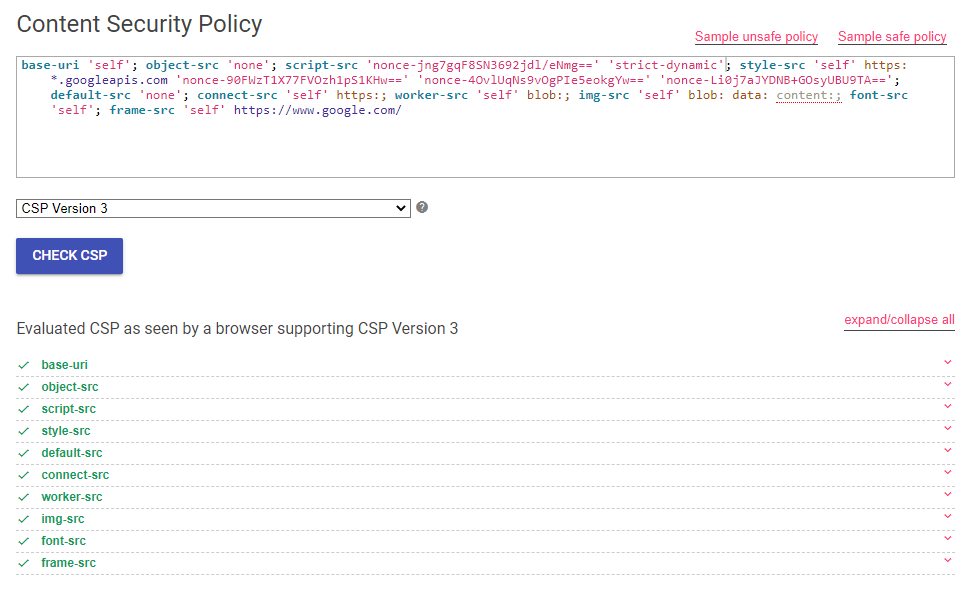
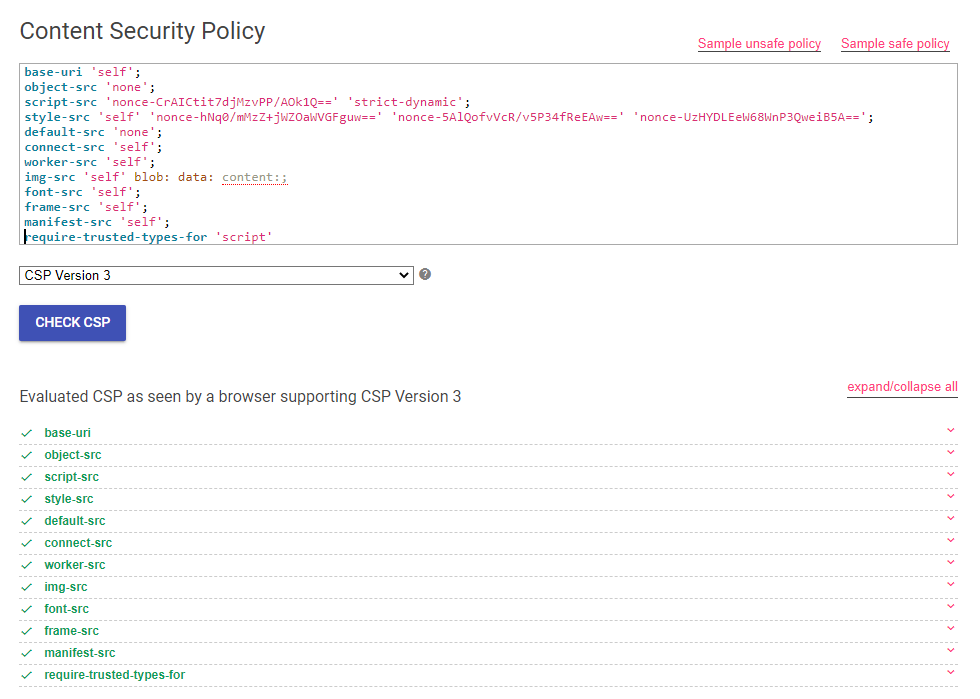
Added Trusted Types

diff --git a/config-overrides.js b/config-overrides.js
@@ -11,8 +11,9 @@ const cspConfigPolicy = {
     'frame-src': "'self'",
     'manifest-src': "'self'",
     'object-src': "'none'",
-    'script-src': ["'self'"],
-    'style-src': ["'self'"]
+    'style-src': ["'self'"],
+    'script-src': ["'strict-dynamic'"],
+    'require-trusted-types-for': ["'script'"]
 };
 
 function addCspHtmlWebpackPlugin(config) {

diff --git a/README.md b/README.md
@@ -12,7 +12,7 @@ on how to security harden my production applications.
 
 This article will show you how to make your CRA application more secure for your organization by implementing:
 - Content Security Policy (CSP)
-- Sanitizing HTML 
+- Trusted Types and Sanitizing HTML 
 - Subresource Integrity (SRI)
 - Excluding Source Maps
 
@@ -42,10 +42,15 @@ GENERATE_SOURCEMAP=false
 
 ### Install CSP Plugin
 
-Install the dependencies including the [CSP Webpack Plugin](https://github.com/melloware/csp-webpack-plugin):
+Install the development dependencies including the [CSP Webpack Plugin](https://github.com/melloware/csp-webpack-plugin):
 
 ```shell
 $ npm install react-app-rewired customize-cra @melloware/csp-webpack-plugin --save-dev
+```
+
+Install runtime dependencies for [DOMPurify](https://www.npmjs.com/package/dompurify) and [Trusted Types](https://www.npmjs.com/package/trusted-types):
+```shell
+$ npm install dompurify trusted-types
 ```
 
 Update `package.json` to use [React App Rewired](https://github.com/timarney/react-app-rewired) so we can inject our Webpack build updates:
@@ -64,16 +69,17 @@ const CspHtmlWebpackPlugin = require("@melloware/csp-webpack-plugin");
 
 const cspConfigPolicy = {
     'default-src': "'none'",
+    'object-src': "'none'",
     'base-uri': "'self'",
     'connect-src': "'self'",
-    'worker-src': "'self' blob:",
+    'worker-src': "'self'",
     'img-src': "'self' blob: data: content:",
     'font-src': "'self'",
     'frame-src': "'self'",
     'manifest-src': "'self'",
-    'object-src': "'none'",
+    'style-src': ["'self'"],
     'script-src': ["'strict-dynamic'"],
-    'style-src': ["'self'"]
+    'require-trusted-types-for': ["'script'"]
 };
 
 function addCspHtmlWebpackPlugin(config) {
@@ -95,15 +101,18 @@ For each CSS and JS a nonce value is assigned and all in-line styles and scripts
 
 ```xml
 <meta http-equiv="Content-Security-Policy" 
-     content="base-uri 'self'; object-src 'none'; 
-     script-src 'strict-dynamic' 'nonce-hV1jy80qaffHEIfJ2wpryg=='; 
-     style-src 'self' 'nonce-79pyUhldGFpDoALHNYfQzA==' 'nonce-BTVl+seb2fGInJbnPSfhVQ==' 'nonce-4kArpnz/wuhrQYZxqAJFqA=='; 
-     default-src 'none'; 
-     connect-src 'self'; 
-     worker-src 'self' blob:; 
-     img-src 'self' blob: data: content:; 
-     font-src 'self'; 
-     frame-src 'self'">
+      content="base-uri 'self'; 
+      object-src 'none'; 
+      script-src 'strict-dynamic' 'nonce-CrAICtit7djMzvPP/AOk1Q=='; 
+      style-src 'self' 'nonce-hNq0/mMzZ+jWZOaWVGFguw==' 'nonce-5AlQofvVcR/v5P34fReEAw==' 'nonce-UzHYDLEeW68WnP3QweiB5A=='; 
+      default-src 'none'; 
+      connect-src 'self'; 
+      worker-src 'self'; 
+      img-src 'self' blob: data: content:; 
+      font-src 'self'; 
+      frame-src 'self'; 
+      manifest-src 'self'; 
+      require-trusted-types-for 'script'">
 
 <link href="./assets/themes/lara-dark-indigo/theme.css" nonce="79pyUhldGFpDoALHNYfQzA==" rel="stylesheet">
 ```
@@ -145,11 +154,12 @@ The above would execute the script in the browser to show you how a simple XSS a
 // Import DOMPurify
 import DOMPurify from 'isomorphic-dompurify';
 
-// Sanitize the review
+// Sanitize the HTML
 return (<p dangerouslySetInnerHTML={{__html: DOMPurify.sanitize(value, {RETURN_TRUSTED_TYPE: true})}}></p>);
 ```
 
-The code above would be sanitized and the `alert` script removed from the output.
+The code above would be sanitized and the `alert` script removed from the output.  However thanks to the CSP WebPack plugin [this code](https://github.com/melloware/csp-webpack-plugin#trusted-types) was automatically added so your entire codebase
+is now sanitized anywhere `innerHTML` is being used.
 
 ## Subresource Integrity
 
@@ -206,3 +216,5 @@ const shouldUseSourceMap = process.env.GENERATE_SOURCEMAP !== 'false';
 In conclusion, you can choose to use any of these tips or pick and choose which tips to use.  I personally prefer to use all of them in my production applications. 
 If anyone has any more security hardening tips I would be happy to update this article and keep it updated.  All of the source code used in this article is available
 on GitHub here: [https://github.com/melloware/react-security-hardening](https://github.com/melloware/react-security-hardening)
+
+You can run `npm run start` and navigate to http://localhost:3000 to see this all in action!
